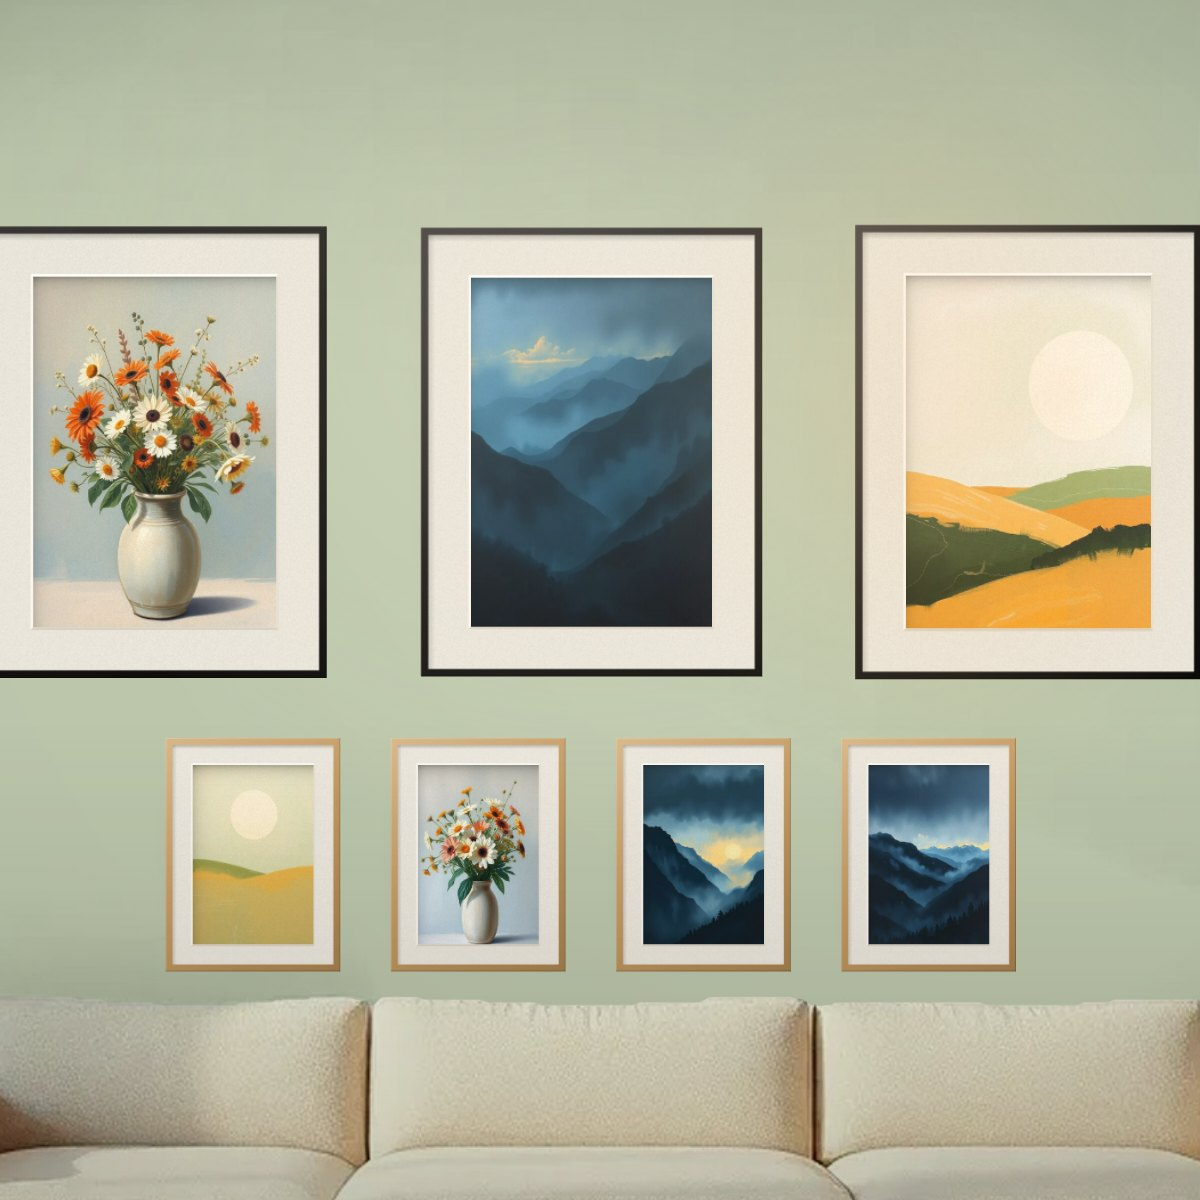
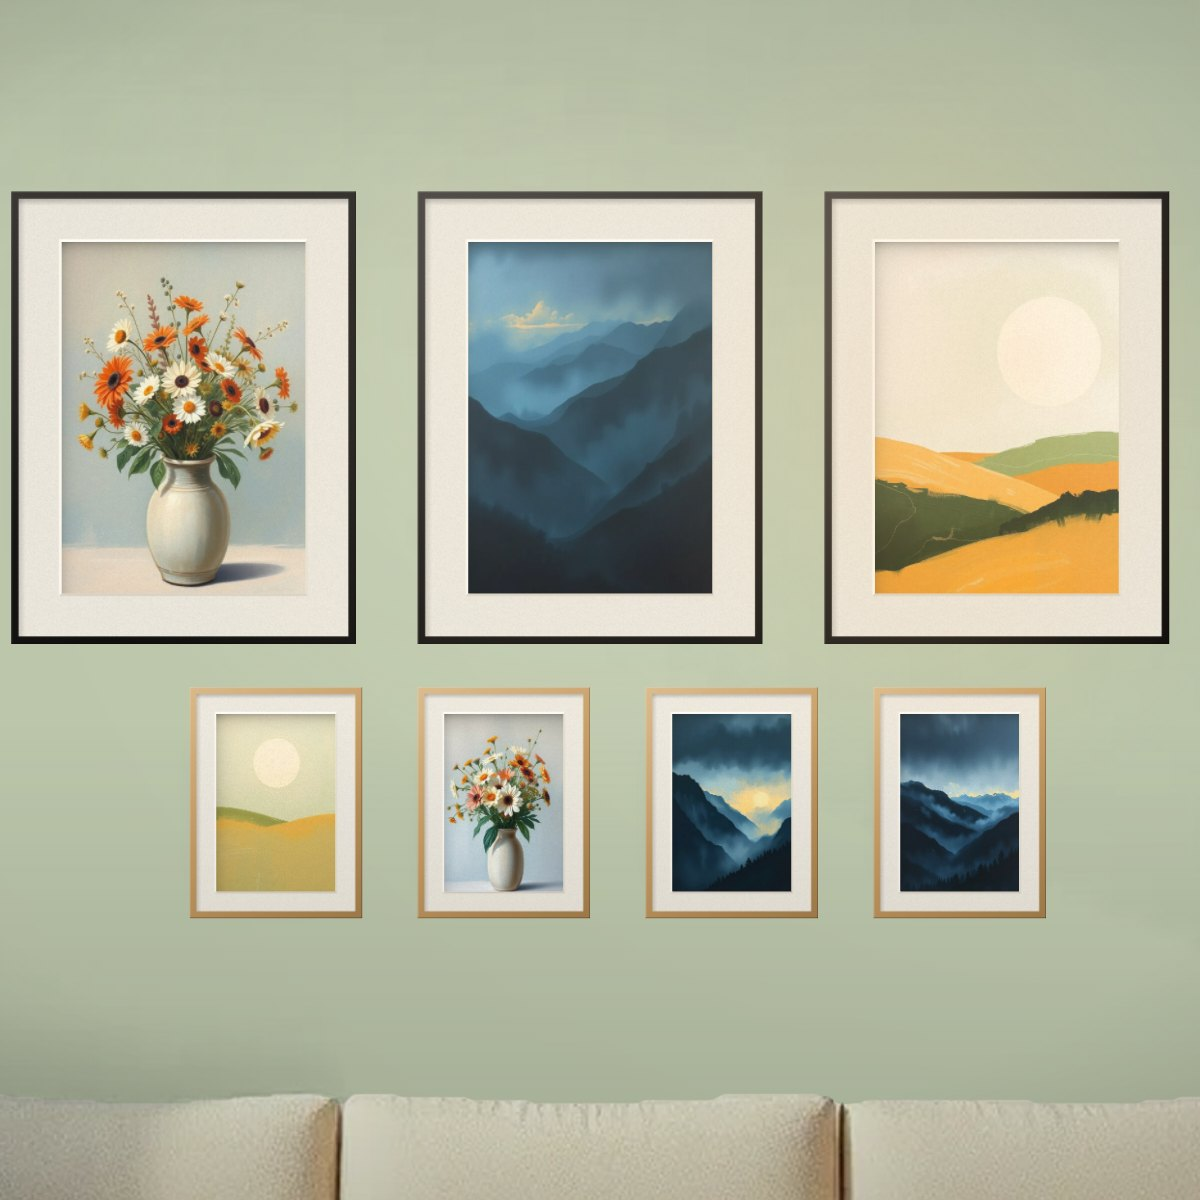
Tighter gallery wall proportioned to sofa, clay tone, refreshed phone specimen
Claude-Session: https://claude.ai/code/session_018a31UpSgKUpTcqNgbw5G6D

diff --git a/index.html b/index.html
@@ -249,7 +249,7 @@ footer a{color:#F8F4EC;text-decoration-thickness:1px;text-underline-offset:3px}
   <div class="chips pill" id="chips" role="group" aria-label="Wall paint">
    <button class="chip" type="button" data-i="0" aria-pressed="true"><i style="background:#E6DDCF"></i>Plaster</button>
    <button class="chip" type="button" data-i="1" aria-pressed="false"><i style="background:#A9BBA0"></i>Sage</button>
-   <button class="chip" type="button" data-i="2" aria-pressed="false"><i style="background:#B98F74"></i>Clay</button>
+   <button class="chip" type="button" data-i="2" aria-pressed="false"><i style="background:#B88768"></i>Clay</button>
   </div>
   <div class="cap pill" id="c0" data-n="01 · See it"><h2>Your buyers see your art on a real wall before they pay.</h2><p>An example: the Quiet Corner Gallery Bundle, 24 prints, 3 palettes, 5 sizes, $19.</p></div>
   <div class="cap pill" id="c1" data-n="02 · Check the detail"><h2>They can see the brushwork, the mat and the glass.</h2><p>Every size from 5x7 to 24x36 looks as it will on their wall.</p></div>
@@ -277,7 +277,7 @@ footer a{color:#F8F4EC;text-decoration-thickness:1px;text-underline-offset:3px}
       <p class="tag">Example product</p>
       <h3>The Quiet Corner Gallery Bundle</h3>
       <p class="blurb">24 prints, 3 wall colours, 5 sizes. Instant download.</p>
-      <div class="swatch-row" aria-hidden="true"><i style="background:#E6DDCF"></i><i style="background:#A9BBA0"></i><i style="background:#B98F74"></i></div>
+      <div class="swatch-row" aria-hidden="true"><i style="background:#E6DDCF"></i><i style="background:#A9BBA0"></i><i style="background:#B88768"></i></div>
       <div class="row"><span class="pr">$19</span><span class="add" aria-hidden="true">Add to cart</span></div>
      </div>
     </div>
@@ -342,7 +342,7 @@ footer a{color:#F8F4EC;text-decoration-thickness:1px;text-underline-offset:3px}
     <div class="hues" role="group" aria-label="Colours you love">
      <button class="hue" type="button" data-c="chalk" aria-pressed="false"><i style="background:#DBCDBF"></i><span>Plaster</span></button>
      <button class="hue" type="button" data-c="sage" aria-pressed="false"><i style="background:#AEB89F"></i><span>Sage</span></button>
-     <button class="hue" type="button" data-c="denim" aria-pressed="false"><i style="background:#B98F74"></i><span>Clay</span></button>
+     <button class="hue" type="button" data-c="denim" aria-pressed="false"><i style="background:#B88768"></i><span>Clay</span></button>
      <button class="hue" type="button" data-c="ink" aria-pressed="false"><i style="background:#2B2622"></i><span>Ink</span></button>
     </div></fieldset>
   </div>
@@ -422,7 +422,7 @@ $("copy").addEventListener("click",function(){
 var PAL=[
  {wall:"#DBCDBF",paper:"#F3F3EE",a:"#4F5A3E",b:"#B9AE9E",c:"#5F7459",d:"#E1D3BC",ink:"#2B2622"},
  {wall:"#AEB89F",paper:"#EFF2EA",a:"#5F7459",b:"#C8D4C0",c:"#2D4A40",d:"#E8DAC6",ink:"#1B2A25"},
- {wall:"#B98F74",paper:"#EDEBE4",a:"#5B4636",b:"#D2C6AC",c:"#A9BBA0",d:"#D9B98A",ink:"#211C18"}];
+ {wall:"#B88768",paper:"#EDEBE4",a:"#5B4636",b:"#D2C6AC",c:"#A9BBA0",d:"#D9B98A",ink:"#211C18"}];
 function mk(w,h){var c=document.createElement("canvas");c.width=Math.max(2,Math.round(w));c.height=Math.max(2,Math.round(h));return c}
 var noiseTile=(function(){var c=mk(128,128),g=c.getContext("2d"),d=g.createImageData(128,128),r=rng(7);for(var i=0;i<d.data.length;i+=4){var v=226+r()*29;d.data[i]=d.data[i+1]=d.data[i+2]=v;d.data[i+3]=255}g.putImageData(d,0,0);return c})();
 
@@ -479,8 +479,8 @@ function shadowTex(){var c=mk(256,256),g=c.getContext("2d");g.fillStyle="#000";g
 var PW=2000,PH=1333;
 /* seven prints: center x,y in photo pixels, outer size, style, art kind */
 var FR=[
- {x:683,y:480,w:252,h:331,st:BLACK,k:0},{x:1003,y:480,w:250,h:329,st:BLACK,k:1},{x:1323,y:480,w:254,h:333,st:BLACK,k:2},
- {x:755,y:775,w:128,h:171,st:OAK,k:3},{x:920,y:775,w:128,h:171,st:OAK,k:4},{x:1085,y:775,w:128,h:171,st:OAK,k:5},{x:1250,y:775,w:128,h:171,st:OAK,k:6}];
+ {x:739,y:440,w:224,h:294,st:BLACK,k:0},{x:1003,y:440,w:224,h:294,st:BLACK,k:1},{x:1267,y:440,w:224,h:294,st:BLACK,k:2},
+ {x:799,y:690,w:112,h:150,st:OAK,k:3},{x:947,y:690,w:112,h:150,st:OAK,k:4},{x:1095,y:690,w:112,h:150,st:OAK,k:5},{x:1243,y:690,w:112,h:150,st:OAK,k:6}];
 var HANG_L=[1,0,2,3,4,5,6],HANG_P=[0,1,2,3,4,5,6];
 
 var S0={};              /* scene state */
@@ -544,8 +544,8 @@ function start(img,maskImg){
 }
 
 /* ============ camera ============ */
-var KL=[[0,1040,640,1100],[.09,1030,580,900],[.42,1010,580,860],[.50,1003,480,560],[.56,1003,480,560],[.63,1010,590,880],[.88,1010,590,880],[1,1040,660,1160]];
-var KP=[[0,1003,820,1010],[.09,683,520,760],[.17,683,520,760],[.24,1003,520,760],[.31,1323,520,760],[.38,1003,620,1000],[.44,1003,640,1333],[.50,1003,500,700],[.56,1003,500,700],[.58,600,620,1100],[.70,1500,620,1100],[.74,600,620,1100],[.86,1500,620,1100],[.93,1003,640,1333],[1,1003,640,1333]];
+var KL=[[0,1040,640,1100],[.09,1030,560,820],[.42,1010,560,760],[.50,1003,440,500],[.56,1003,440,500],[.63,1010,560,780],[.88,1010,560,780],[1,1040,660,1160]];
+var KP=[[0,1003,820,1010],[.09,739,500,640],[.17,739,500,640],[.24,1003,500,640],[.31,1267,500,640],[.38,1003,560,900],[.44,1003,600,1100],[.50,1003,470,640],[.56,1003,470,640],[.58,600,620,1100],[.70,1500,620,1100],[.74,600,620,1100],[.86,1500,620,1100],[.93,1003,640,1333],[1,1003,640,1333]];
 function camAt(K,p){var i=0;while(i<K.length-2&&p>K[i+1][0])i++;var a=K[i],b=K[i+1],t=sm5(seg(p,a[0],b[0]));return[lerp(a[1],b[1],t),lerp(a[2],b[2],t),lerp(a[3],b[3],t)]}
 
 /* ============ one function maps scroll progress to everything on screen ============ */
